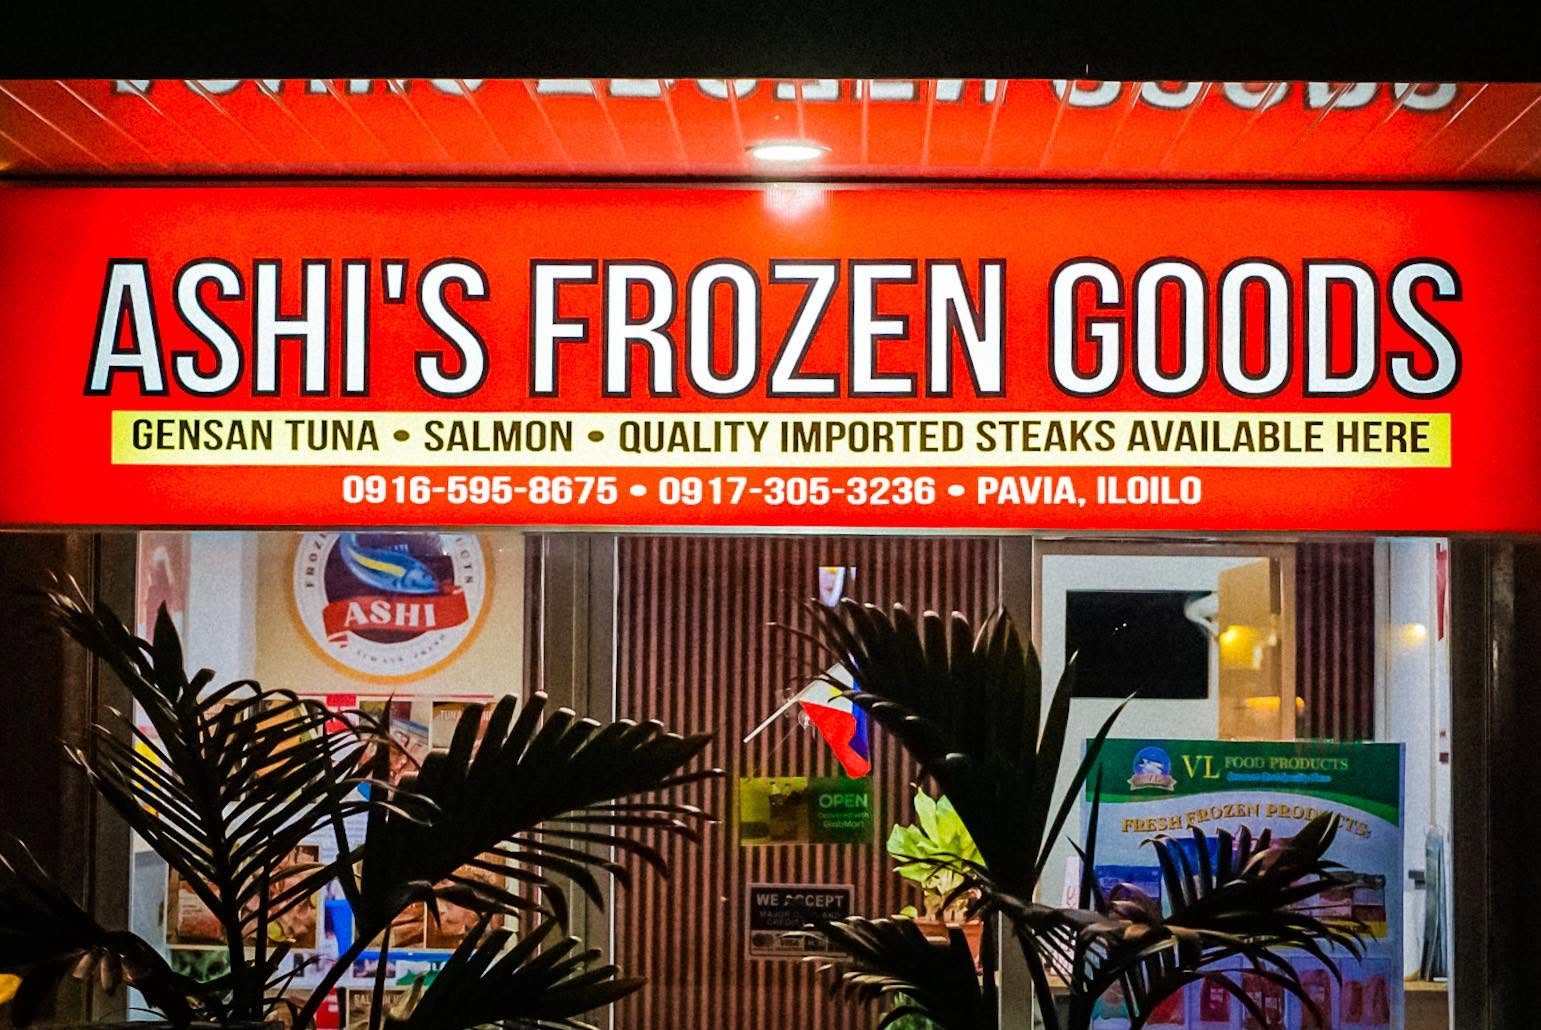
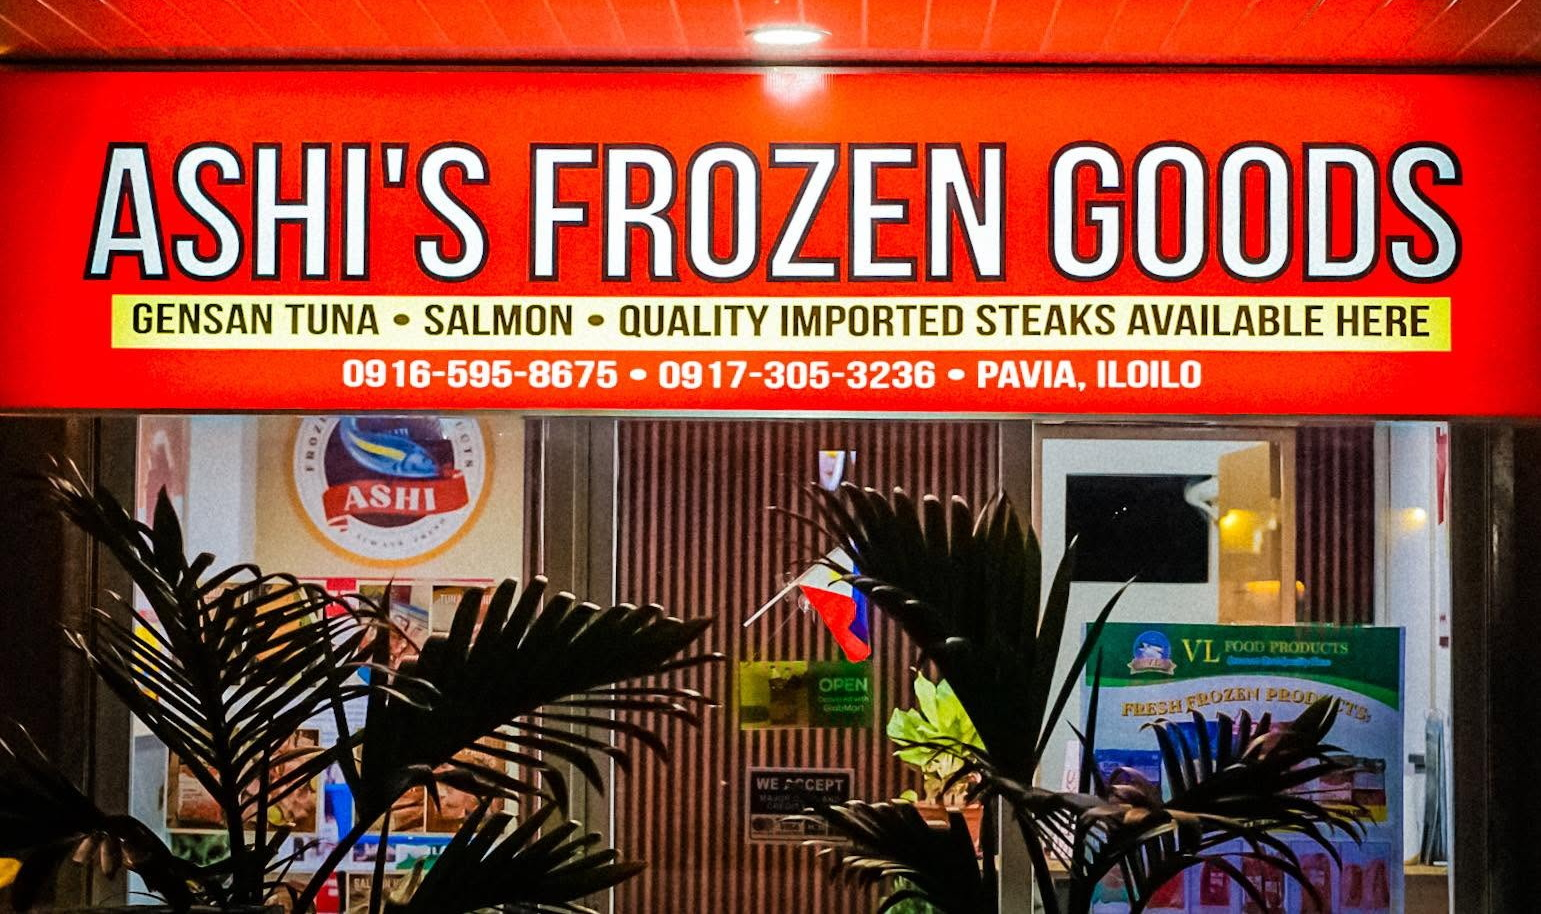
Restore the dark hero and crop the shop photo.
Bring back the maroon hero, keep headlines on one line, show address and hours as plain text, add a Pavia map, and trim the black strip from the storefront photo.

diff --git a/css/styles.css b/css/styles.css
@@ -190,70 +190,74 @@ p { margin: 0 0 1em; }
   position: relative;
   overflow: hidden;
   background:
-    linear-gradient(180deg, #fffdf9 0%, #f6efe4 100%);
-  color: var(--ink);
-  padding: 3.75rem 0 3.5rem;
-  border-bottom: 1px solid var(--line);
+    radial-gradient(ellipse 80% 60% at 80% 20%, rgba(201, 162, 39, 0.18), transparent 55%),
+    linear-gradient(180deg, #1c1010 0%, #3a1616 55%, #5a1c1c 100%);
+  color: #fff;
+  padding: 4.25rem 0 3.75rem;
 }
 .hero-grid {
   display: grid;
   grid-template-columns: 1.05fr 0.95fr;
-  gap: 3.25rem;
+  gap: 3rem;
   align-items: center;
 }
+.hero-copy { container-type: inline-size; }
 .hero-kicker {
   display: inline-flex;
   align-items: center;
   gap: 0.65rem;
   font-family: var(--font);
   font-size: 0.75rem;
-  letter-spacing: 0.16em;
+  letter-spacing: 0.14em;
   text-transform: uppercase;
-  color: var(--red);
+  color: var(--gold-light);
   font-weight: 700;
   margin-bottom: 1.1rem;
 }
 .hero-kicker::before {
   content: "";
   width: 2rem;
-  height: 1px;
+  height: 2px;
   background: var(--gold);
 }
 .hero h1 {
   display: flex;
   flex-direction: column;
   align-items: flex-start;
-  gap: 0.55rem;
+  gap: 0.4rem;
   font-family: var(--font);
   font-size: 1rem;
   font-weight: 500;
-  color: var(--ink);
+  color: #fff;
   margin: 0 0 1.15rem;
+}
+.hero-brand,
+.hero-subtitle {
+  display: block;
+  white-space: nowrap;
+  max-width: 100%;
 }
 .hero-brand {
   font-family: var(--brand);
   font-optical-sizing: auto;
   font-weight: 560;
-  font-size: clamp(2.7rem, 5vw, 4.15rem);
-  line-height: 0.98;
+  font-size: clamp(1.7rem, 8.4cqi, 3.15rem);
+  line-height: 1.05;
   letter-spacing: -0.03em;
-  color: var(--red-dark);
-  padding-bottom: 0.4rem;
-  border-bottom: 2px solid var(--gold);
+  color: #fff;
 }
 .hero-subtitle {
   font-family: var(--font);
   font-weight: 600;
-  font-size: clamp(1.15rem, 2.1vw, 1.45rem);
-  line-height: 1.35;
-  letter-spacing: -0.015em;
-  color: var(--ink);
-  max-width: 22rem;
+  font-size: clamp(0.82rem, 3.45cqi, 1.2rem);
+  line-height: 1.3;
+  letter-spacing: -0.01em;
+  color: rgba(255, 255, 255, 0.88);
 }
 .hero-lead {
   font-size: 1.05rem;
-  color: var(--ink-soft);
-  max-width: 34rem;
+  color: rgba(255, 255, 255, 0.86);
+  max-width: 36rem;
   margin-bottom: 1.6rem;
 }
 .hero-actions { display: flex; flex-wrap: wrap; gap: 0.7rem; align-items: center; }
@@ -276,16 +280,43 @@ p { margin: 0 0 1em; }
   position: absolute;
   left: 1rem;
   bottom: 1rem;
-  background: rgba(255, 253, 249, 0.94);
-  color: var(--ink);
+  background: rgba(28, 20, 18, 0.82);
+  backdrop-filter: blur(8px);
+  color: #fff;
   padding: 0.8rem 0.95rem;
   border-radius: 12px;
-  border: 1px solid rgba(201, 162, 39, 0.55);
+  border: 1px solid rgba(201, 162, 39, 0.35);
   max-width: 230px;
-  box-shadow: 0 8px 20px rgba(28, 20, 18, 0.12);
 }
-.hero-badge strong { display: block; color: var(--red); font-size: 0.85rem; margin-bottom: 0.2rem; }
-.hero-badge span { font-size: 0.82rem; color: var(--ink-soft); }
+.hero-badge strong { display: block; color: var(--gold-light); font-size: 0.85rem; margin-bottom: 0.2rem; }
+.hero-badge span { font-size: 0.82rem; color: rgba(255, 255, 255, 0.85); }
+.hero-facts {
+  list-style: none;
+  margin: 1.4rem 0 0;
+  padding: 0;
+  display: grid;
+  gap: 0.7rem;
+  max-width: 36rem;
+}
+.hero-facts li {
+  margin: 0;
+  padding: 0;
+  background: none;
+  border: 0;
+  color: rgba(255, 255, 255, 0.9);
+  font-size: 0.95rem;
+  font-weight: 500;
+  line-height: 1.4;
+}
+.hero-facts span {
+  display: block;
+  margin-bottom: 0.1rem;
+  color: var(--gold-light);
+  font-size: 0.72rem;
+  font-weight: 700;
+  letter-spacing: 0.08em;
+  text-transform: uppercase;
+}
 
 /* Sections */
 .section { padding: 4rem 0; }
@@ -649,8 +680,35 @@ p { margin: 0 0 1em; }
 
 .btn-label-short { display: none; }
 
+.visit-grid {
+  display: grid;
+  grid-template-columns: 1.15fr 0.85fr;
+  gap: 1.25rem;
+  align-items: stretch;
+}
+.visit-grid .teaser { margin: 0; height: 100%; }
+.home-map {
+  background: var(--card);
+  border: 1px solid var(--line);
+  border-radius: var(--radius);
+  padding: 1rem 1rem 1.1rem;
+  box-shadow: var(--shadow);
+  display: flex;
+  flex-direction: column;
+}
+.home-map h2 {
+  font-size: 1.45rem;
+  margin: 0.15rem 0 0.75rem;
+}
+.home-map .map-embed-wrap { margin-top: 0; flex: 1; min-height: 240px; }
+.home-map .map-open {
+  display: inline-block;
+  margin-top: 0.85rem;
+  font-weight: 700;
+}
+
 @media (max-width: 900px) {
-  .hero-grid, .dual-col, .footer-grid, .mv-grid, .teaser {
+  .hero-grid, .dual-col, .footer-grid, .mv-grid, .teaser, .visit-grid {
     grid-template-columns: 1fr;
   }
   .cat-grid { grid-template-columns: 1fr; }

diff --git a/index.html b/index.html
@@ -105,19 +105,19 @@
   <main>
     <section class="hero">
       <div class="container hero-grid">
-        <div>
-          <p class="hero-kicker">Pavia, Iloilo · Frozen seafood shop</p>
+        <div class="hero-copy">
+          <p class="hero-kicker">Frozen seafood shop in Pavia, Iloilo</p>
           <h1><span class="hero-brand">Ashi's Frozen Goods</span><span class="hero-subtitle">Frozen Tuna, Salmon &amp; Seafood in Pavia, Iloilo</span></h1>
           <p class="hero-lead">Specialty frozen GenSan tuna, salmon, sashimi, and imported steaks for households and food businesses. Visit the shop in Pavia or message us on Messenger to order.</p>
           <div class="hero-actions">
             <a class="btn btn-gold" href="menu/">View Menu Prices</a>
             <a class="btn btn-messenger" href="https://m.me/ashifrozengoods" target="_blank" rel="noopener" aria-label="Message us on Messenger">Message us on Messenger</a>
           </div>
-          <div class="pill-row">
-            <span class="pill">Door 4, AC Arcade Building, Felix Gorriceta Jr. Avenue, Pavia, 5001 Iloilo</span>
-            <span class="pill">Daily 10:00 AM–7:00 PM</span>
-            <span class="pill">Visit / pick up in Pavia</span>
-          </div>
+          <ul class="hero-facts">
+            <li><span>Address</span> Door 4, AC Arcade Building, Felix Gorriceta Jr. Avenue, Pavia, 5001 Iloilo</li>
+            <li><span>Hours</span> Daily 10:00 AM–7:00 PM</li>
+            <li><span>Visit</span> Visit / pick up in Pavia</li>
+          </ul>
         </div>
         <div class="hero-panel">
           <img src="images/banner.jpg" alt="Shop photo of Ashi&#x27;s Frozen Goods with frozen tuna, salmon, and seafood in Pavia, Iloilo" data-fallback="images/placeholder.svg">
@@ -269,8 +269,8 @@
       </div>
     </section>
 
-    <section class="section">
-      <div class="container">
+    <section class="section" id="find-us">
+      <div class="container visit-grid">
         <div class="teaser">
           <div>
             <p class="section-kicker" style="color:var(--gold-light);">How to buy</p>
@@ -279,6 +279,13 @@
             <a class="btn btn-gold" href="about/">About Ashi's</a>
             <a class="btn btn-messenger" href="https://m.me/ashifrozengoods" target="_blank" rel="noopener" aria-label="Message us on Messenger">Message us on Messenger</a>
           </div>
+        </div>
+        <div class="home-map">
+          <h2>Find us in Pavia</h2>
+          <div class="map-embed-wrap">
+            <iframe title="Find us in Pavia" src="https://maps.google.com/maps?q=10.7539047,122.5230448&amp;z=17&amp;output=embed" loading="lazy" referrerpolicy="no-referrer-when-downgrade" allowfullscreen></iframe>
+          </div>
+          <a class="map-open" href="https://www.google.com/maps/place/Ashi's+Frozen+Goods/@10.7539047,122.5230448,17z/data=!4m7!3m6!1s0x33aefb2daac09ecb:0x425b091baa5a237a!8m2!3d10.7539047!4d122.5230448" target="_blank" rel="noopener">Open in Google Maps</a>
         </div>
       </div>
     </section>
